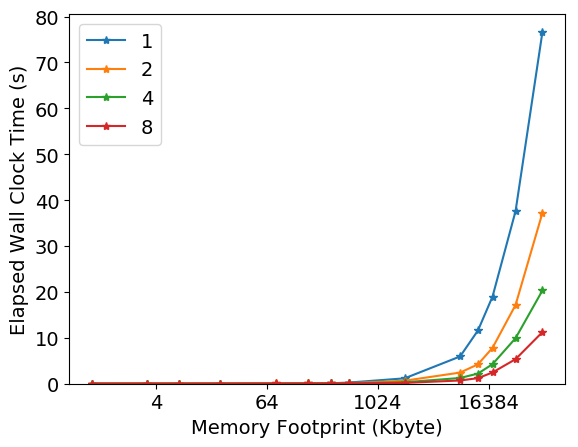
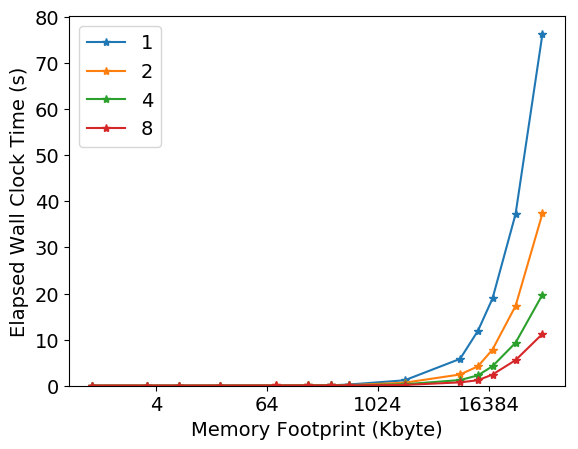
Made figures for mandelbrot and added Threads vs WallTime

diff --git a/mandelbrot/data/vizfun.py b/mandelbrot/data/vizfun.py
@@ -8,27 +8,29 @@ font = {'size'   : 14}
 
 mpl.rc('font', **font)
 
-df1 = pd.read_csv('statfun.dat',delim_whitespace=True,header=None,names=["Threads","MaxIter","Memory","MFlops","WallTime","Size"])
+df1 = pd.read_csv('statfun.dat',delim_whitespace=True,header=None,names=["Threads","MaxIter","Memory","WallTime","Size"])
 
-df1 = df1.loc[df1['Threads'] < 16]
 
 plt.figure()
-df1.set_index("Memory", inplace=True)
-ax = df1.groupby("Threads")["MFlops"].plot(legend=True, style ='*-')
+df1.set_index("Threads", inplace=True)
+ax = df1.groupby("Size")["WallTime"].plot(legend=True, style ='*-')
 plt.legend(loc='upper left')
-plt.xlabel('Memory Footprint (Kbyte)')
-plt.ylabel('Performance (MFlops)')
-plt.gca().set_ylim(bottom=0)
-plt.xscale('log',basex=4)
-#plt.yscale('log',basey=2)
+plt.xlabel('Number of Threads')
+plt.ylabel('Elapsed Wall Clock Time (s)')
+#plt.gca().set_ylim(bottom=0)
+plt.xscale('log',basex=2)
+plt.yscale('log',basey=2)
+plt.legend(loc='center left', bbox_to_anchor=(1, 0.5))
 ax = plt.gca().xaxis 
 ax.set_major_formatter(ScalarFormatter()) 
-#ax = plt.gca().yaxis 
-#ax.set_major_formatter(ScalarFormatter()) 
-plt.savefig('MFlops.png', bbox_inches='tight')
+ax = plt.gca().yaxis 
+ax.set_major_formatter(ScalarFormatter()) 
+plt.savefig('TreadsWallTime.png', bbox_inches='tight')
 plt.close()
 
 plt.figure()
+df1.reset_index(inplace=True)
+df1.set_index("Memory", inplace=True)
 ax = df1.groupby("Threads")["WallTime"].plot(legend=True, style ='*-')
 plt.legend(loc='upper left')
 plt.xlabel('Memory Footprint (Kbyte)')
@@ -43,26 +45,7 @@ ax.set_major_formatter(ScalarFormatter())
 plt.savefig('WallTime.png', bbox_inches='tight')
 plt.close()
 
-df1 = pd.read_csv('statfun.dat',delim_whitespace=True,header=None,names=["Threads","MaxIter","Memory","MFlops","WallTime","Size"])
-df1 = df1.loc[df1['Size'] >= 100]
-plt.figure()
-df1.set_index("Threads", inplace=True)
-ax = df1.groupby("Size")["WallTime"].plot(legend=True, style ='*-')
-plt.legend(loc='upper left')
-plt.xlabel('Number of Threads')
-plt.ylabel('Elapsed Wall Clock Time (s)')
-#plt.gca().set_ylim(bottom=0)
-plt.xscale('log',basex=2)
-plt.yscale('log',basey=2)
-plt.legend(loc='center left', bbox_to_anchor=(1, 0.5))
-ax = plt.gca().xaxis 
-ax.set_major_formatter(ScalarFormatter()) 
-ax = plt.gca().yaxis 
-#ax.set_major_formatter(ScalarFormatter()) 
-plt.savefig('TreadsWallTime.png', bbox_inches='tight')
-plt.close()
-
-df1 = pd.read_csv('statfun.dat',delim_whitespace=True,header=None,names=["Threads","MaxIter","Memory","MFlops","WallTime","Size"])
+df1 = pd.read_csv('statfun.dat',delim_whitespace=True,header=None,names=["Threads","MaxIter","Memory","WallTime","Size"])
 df1 = df1.loc[df1['Size'] >= 100]
 plt.figure()
 df1 = df1.sort_values(['Size','Threads'],ascending=True)
@@ -83,4 +66,3 @@ ax.set_major_formatter(ScalarFormatter())
 #ax.set_major_formatter(ScalarFormatter())
 plt.savefig('Speedup.png', bbox_inches='tight')
 plt.close()
-
